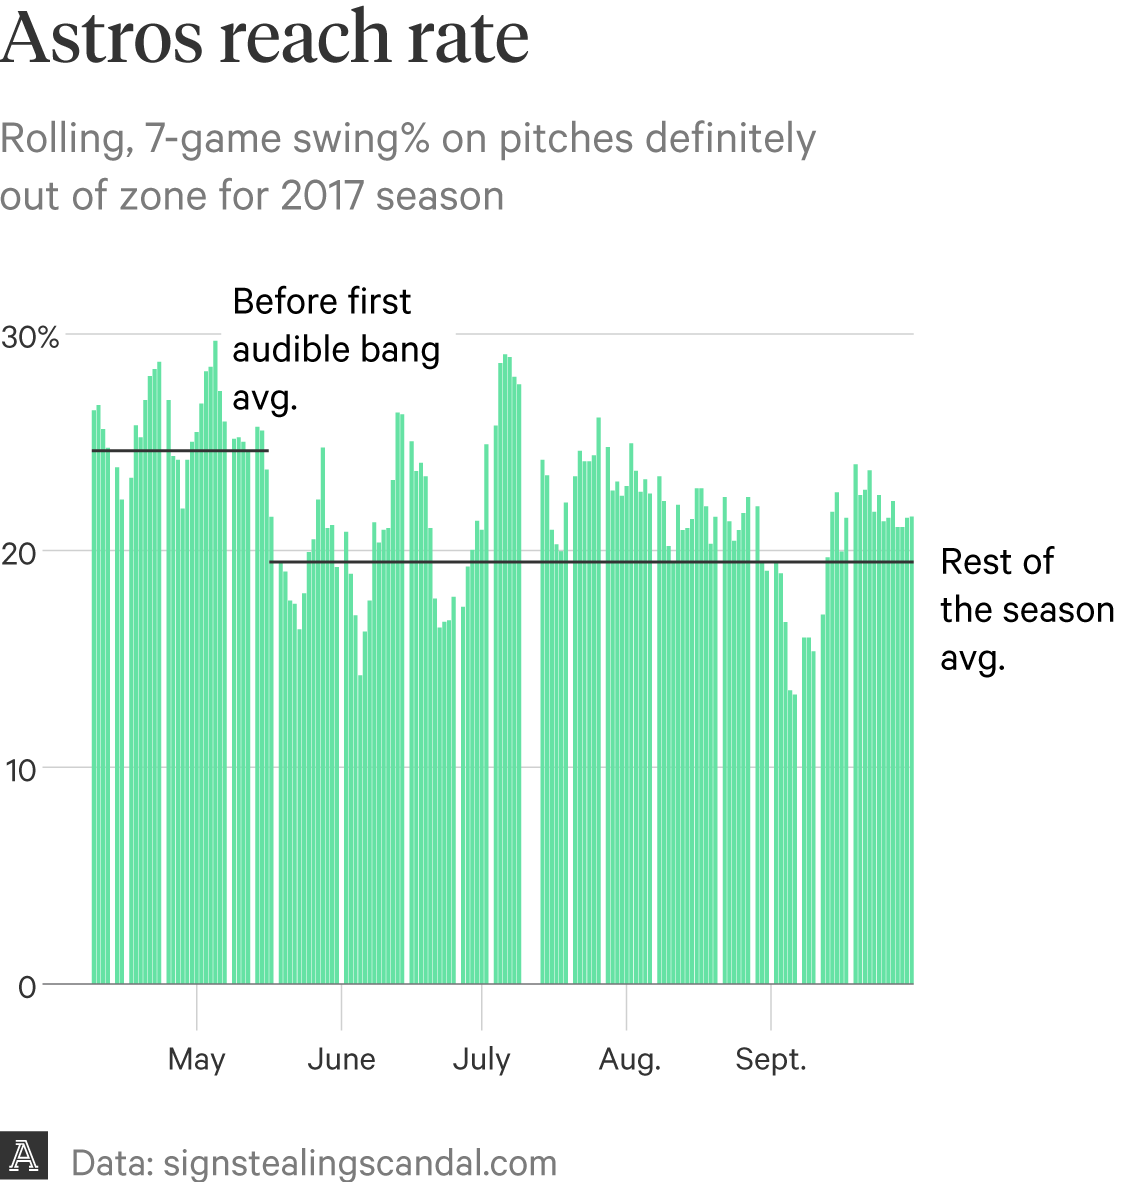
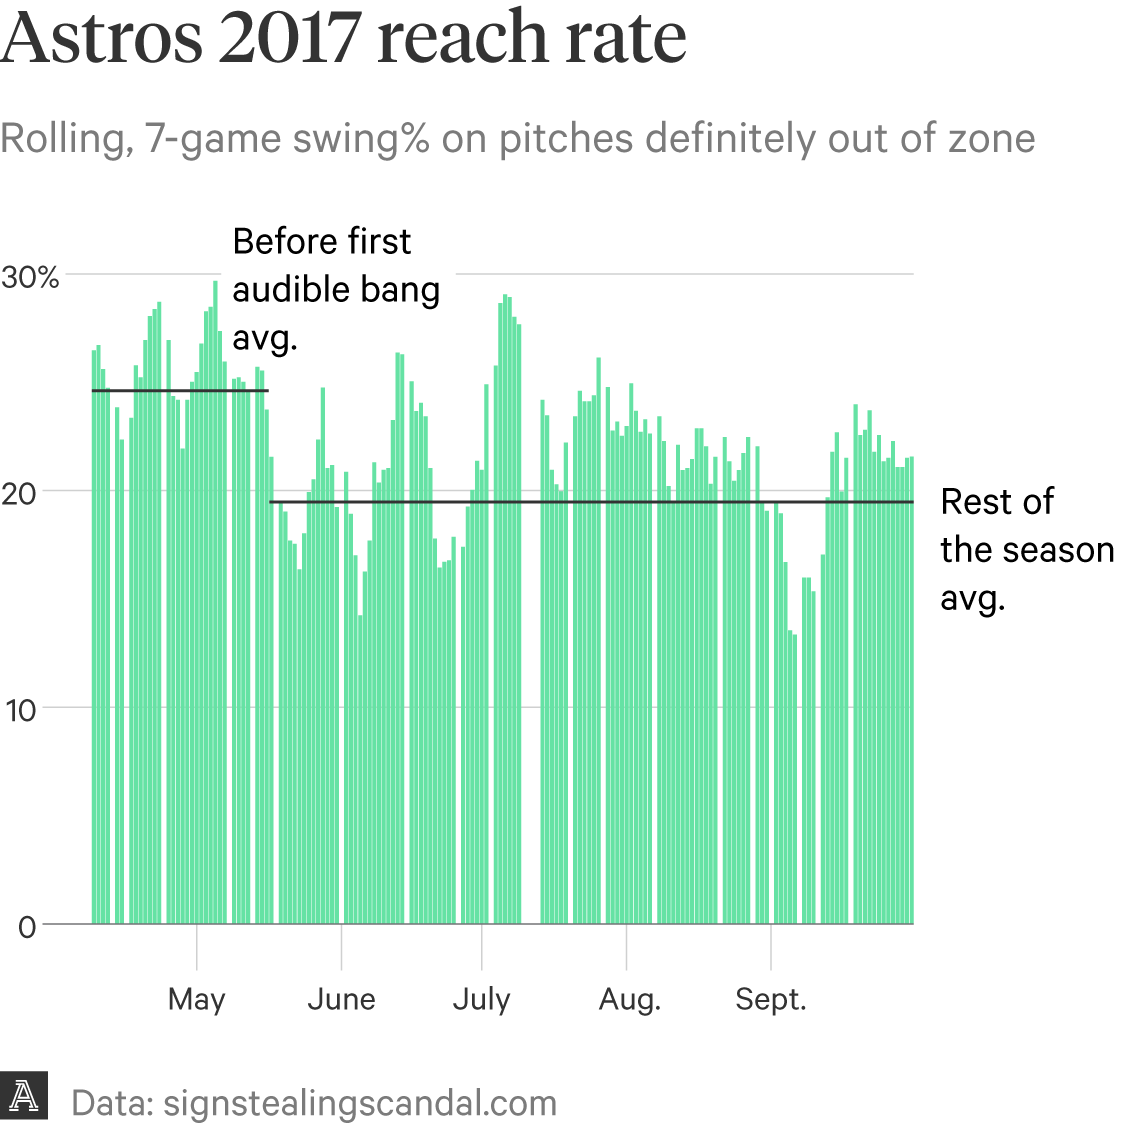
update reach rate hed

diff --git a/reach-rate/reach-rate.html b/reach-rate/reach-rate.html
@@ -49,7 +49,7 @@
     <div class="tmpl-ai2htmlPage">
         <div class="g-graphicStub">
             <div id='g-reach-rate-box' class='ai2html'>
-	<!-- Generated by ai2html v0.61 - 2020-02-29 - 18:04 -->
+	<!-- Generated by ai2html v0.61 - 2020-02-29 - 18:10 -->
 	<!-- ai file: reach-rate -->
 
 	<style type='text/css' media='screen,print'>
@@ -139,11 +139,11 @@
 				src='images/reach-rate-mobile-small.png'
 				/>
 			<div id='g-ai0-1' class='g-art g-aiAbs' style='top:-0.5076%;left:-0.2447%;'>
-				<p class='g-aiPstyle0'>Astros reach rate</p>
+				<p class='g-aiPstyle0'>Astros 2017 reach rate</p>
 			</div>
 			<div id='g-ai0-2' class='g-art g-aiAbs' style='top:9.1371%;left:-0.2447%;'>
 				<p class='g-aiPstyle1'>Rolling, 7-game swing% on pitches definitely</p>
-				<p class='g-aiPstyle1'>out of zone for 2017 season</p>
+				<p class='g-aiPstyle1'>out of zone</p>
 			</div>
 			<div id='g-ai0-3' class='g-art g-aiAbs' style='top:22.0812%;left:21.7339%;'>
 				<p class='g-aiPstyle2'>Before first</p>
@@ -254,51 +254,50 @@
 				class='g-aiImg'
 				src='images/reach-rate-mobile-large.png'
 				/>
-			<div id='g-ai1-1' class='g-art g-aiAbs' style='top:-0.5076%;left:-0.0885%;'>
-				<p class='g-aiPstyle0'>Astros reach rate</p>
+			<div id='g-ai1-1' class='g-art g-aiAbs' style='top:-0.5333%;left:-0.0885%;'>
+				<p class='g-aiPstyle0'>Astros 2017 reach rate</p>
 			</div>
-			<div id='g-ai1-2' class='g-art g-aiAbs' style='top:9.1371%;left:-0.0885%;'>
-				<p class='g-aiPstyle1'>Rolling, 7-game swing% on pitches definitely</p>
-				<p class='g-aiPstyle1'>out of zone for 2017 season</p>
+			<div id='g-ai1-2' class='g-art g-aiAbs' style='top:9.6%;left:-0.0885%;'>
+				<p class='g-aiPstyle1'>Rolling, 7-game swing% on pitches definitely out of zone</p>
 			</div>
-			<div id='g-ai1-3' class='g-art g-aiAbs' style='top:23.3503%;left:20.6848%;'>
+			<div id='g-ai1-3' class='g-art g-aiAbs' style='top:19.2%;left:20.6848%;'>
 				<p class='g-aiPstyle2'>Before first</p>
 				<p class='g-aiPstyle2'>audible bang</p>
 				<p class='g-aiPstyle2'>avg.</p>
 			</div>
-			<div id='g-ai1-4' class='g-art g-aiAbs' style='top:26.6497%;right:94.6341%;'>
+			<div id='g-ai1-4' class='g-art g-aiAbs' style='top:22.6667%;right:94.6341%;'>
 				<p class='g-aiPstyle3'>30%</p>
 			</div>
-			<div id='g-ai1-5' class='g-art g-aiAbs' style='top:44.9239%;right:96.7036%;'>
+			<div id='g-ai1-5' class='g-art g-aiAbs' style='top:41.8667%;right:96.7036%;'>
 				<p class='g-aiPstyle3'>20</p>
 			</div>
-			<div id='g-ai1-6' class='g-art g-aiAbs' style='top:45.4315%;left:83.7767%;'>
+			<div id='g-ai1-6' class='g-art g-aiAbs' style='top:42.4%;left:83.7767%;'>
 				<p class='g-aiPstyle2'>Rest of</p>
 				<p class='g-aiPstyle2'>the season</p>
 				<p class='g-aiPstyle2'>avg.</p>
 			</div>
-			<div id='g-ai1-7' class='g-art g-aiAbs' style='top:63.4518%;right:96.7036%;'>
+			<div id='g-ai1-7' class='g-art g-aiAbs' style='top:61.3333%;right:96.7036%;'>
 				<p class='g-aiPstyle3'>10</p>
 			</div>
-			<div id='g-ai1-8' class='g-art g-aiAbs' style='top:81.7259%;right:96.7036%;'>
+			<div id='g-ai1-8' class='g-art g-aiAbs' style='top:80.5333%;right:96.7036%;'>
 				<p class='g-aiPstyle3'>0</p>
 			</div>
-			<div id='g-ai1-9' class='g-art g-aiAbs' style='top:87.8173%;left:17.5264%;width:10.479%;margin-left:-5.2395%;'>
+			<div id='g-ai1-9' class='g-art g-aiAbs' style='top:86.9333%;left:17.5264%;width:10.479%;margin-left:-5.2395%;'>
 				<p class='g-aiPstyle4'>May</p>
 			</div>
-			<div id='g-ai1-10' class='g-art g-aiAbs' style='top:87.8173%;left:30.4424%;width:12.2694%;margin-left:-6.1347%;'>
+			<div id='g-ai1-10' class='g-art g-aiAbs' style='top:86.9333%;left:30.4424%;width:12.2694%;margin-left:-6.1347%;'>
 				<p class='g-aiPstyle4'>June</p>
 			</div>
-			<div id='g-ai1-11' class='g-art g-aiAbs' style='top:87.8173%;left:42.9347%;width:10.4597%;margin-left:-5.2298%;'>
+			<div id='g-ai1-11' class='g-art g-aiAbs' style='top:86.9333%;left:42.9347%;width:10.4597%;margin-left:-5.2298%;'>
 				<p class='g-aiPstyle4'>July</p>
 			</div>
-			<div id='g-ai1-12' class='g-art g-aiAbs' style='top:87.8173%;left:56.1057%;width:11.2172%;margin-left:-5.6086%;'>
+			<div id='g-ai1-12' class='g-art g-aiAbs' style='top:86.9333%;left:56.1057%;width:11.2172%;margin-left:-5.6086%;'>
 				<p class='g-aiPstyle4'>Aug.</p>
 			</div>
-			<div id='g-ai1-13' class='g-art g-aiAbs' style='top:87.8173%;left:68.7099%;width:12.6606%;margin-left:-6.3303%;'>
+			<div id='g-ai1-13' class='g-art g-aiAbs' style='top:86.9333%;left:68.7099%;width:12.6606%;margin-left:-6.3303%;'>
 				<p class='g-aiPstyle4'>Sept.</p>
 			</div>
-			<div id='g-ai1-14' class='g-art g-aiAbs' style='top:96.1929%;left:6.283%;'>
+			<div id='g-ai1-14' class='g-art g-aiAbs' style='top:95.7333%;left:6.283%;'>
 				<p class='g-aiPstyle5'>Data: signstealingscandal.com</p>
 			</div>
 		</div>
@@ -371,10 +370,10 @@
 				src='images/reach-rate-tablet.png'
 				/>
 			<div id='g-ai2-1' class='g-art g-aiAbs' style='top:-1.0554%;left:0%;'>
-				<p class='g-aiPstyle0'>Astros reach rate</p>
+				<p class='g-aiPstyle0'>Astros 2017 reach rate</p>
 			</div>
 			<div id='g-ai2-2' class='g-art g-aiAbs' style='top:11.0818%;left:0%;'>
-				<p class='g-aiPstyle1'>Rolling, 7-game swing% on pitches definitely out of zone for 2017 season</p>
+				<p class='g-aiPstyle1'>Rolling, 7-game swing% on pitches definitely out of zone</p>
 			</div>
 			<div id='g-ai2-3' class='g-art g-aiAbs' style='top:19.5251%;left:20.3737%;'>
 				<p class='g-aiPstyle2'>Before first</p>
@@ -486,10 +485,10 @@
 				src='images/reach-rate-desktop.png'
 				/>
 			<div id='g-ai3-1' class='g-art g-aiAbs' style='top:-1.0695%;left:0.014%;'>
-				<p class='g-aiPstyle0'>Astros reach rate</p>
+				<p class='g-aiPstyle0'>Astros 2017 reach rate</p>
 			</div>
 			<div id='g-ai3-2' class='g-art g-aiAbs' style='top:11.2299%;left:0.014%;'>
-				<p class='g-aiPstyle1'>Rolling, 7-game swing% on pitches definitely out of zone for 2017 season</p>
+				<p class='g-aiPstyle1'>Rolling, 7-game swing% on pitches definitely out of zone</p>
 			</div>
 			<div id='g-ai3-3' class='g-art g-aiAbs' style='top:22.7273%;right:97.3898%;'>
 				<p class='g-aiPstyle2'>30%</p>
@@ -603,7 +602,7 @@
     })();
 </script>
 
-	<!-- End ai2html - 2020-02-29 - 18:04 -->
+	<!-- End ai2html - 2020-02-29 - 18:10 -->
 </div>
         </div>
     </div>
